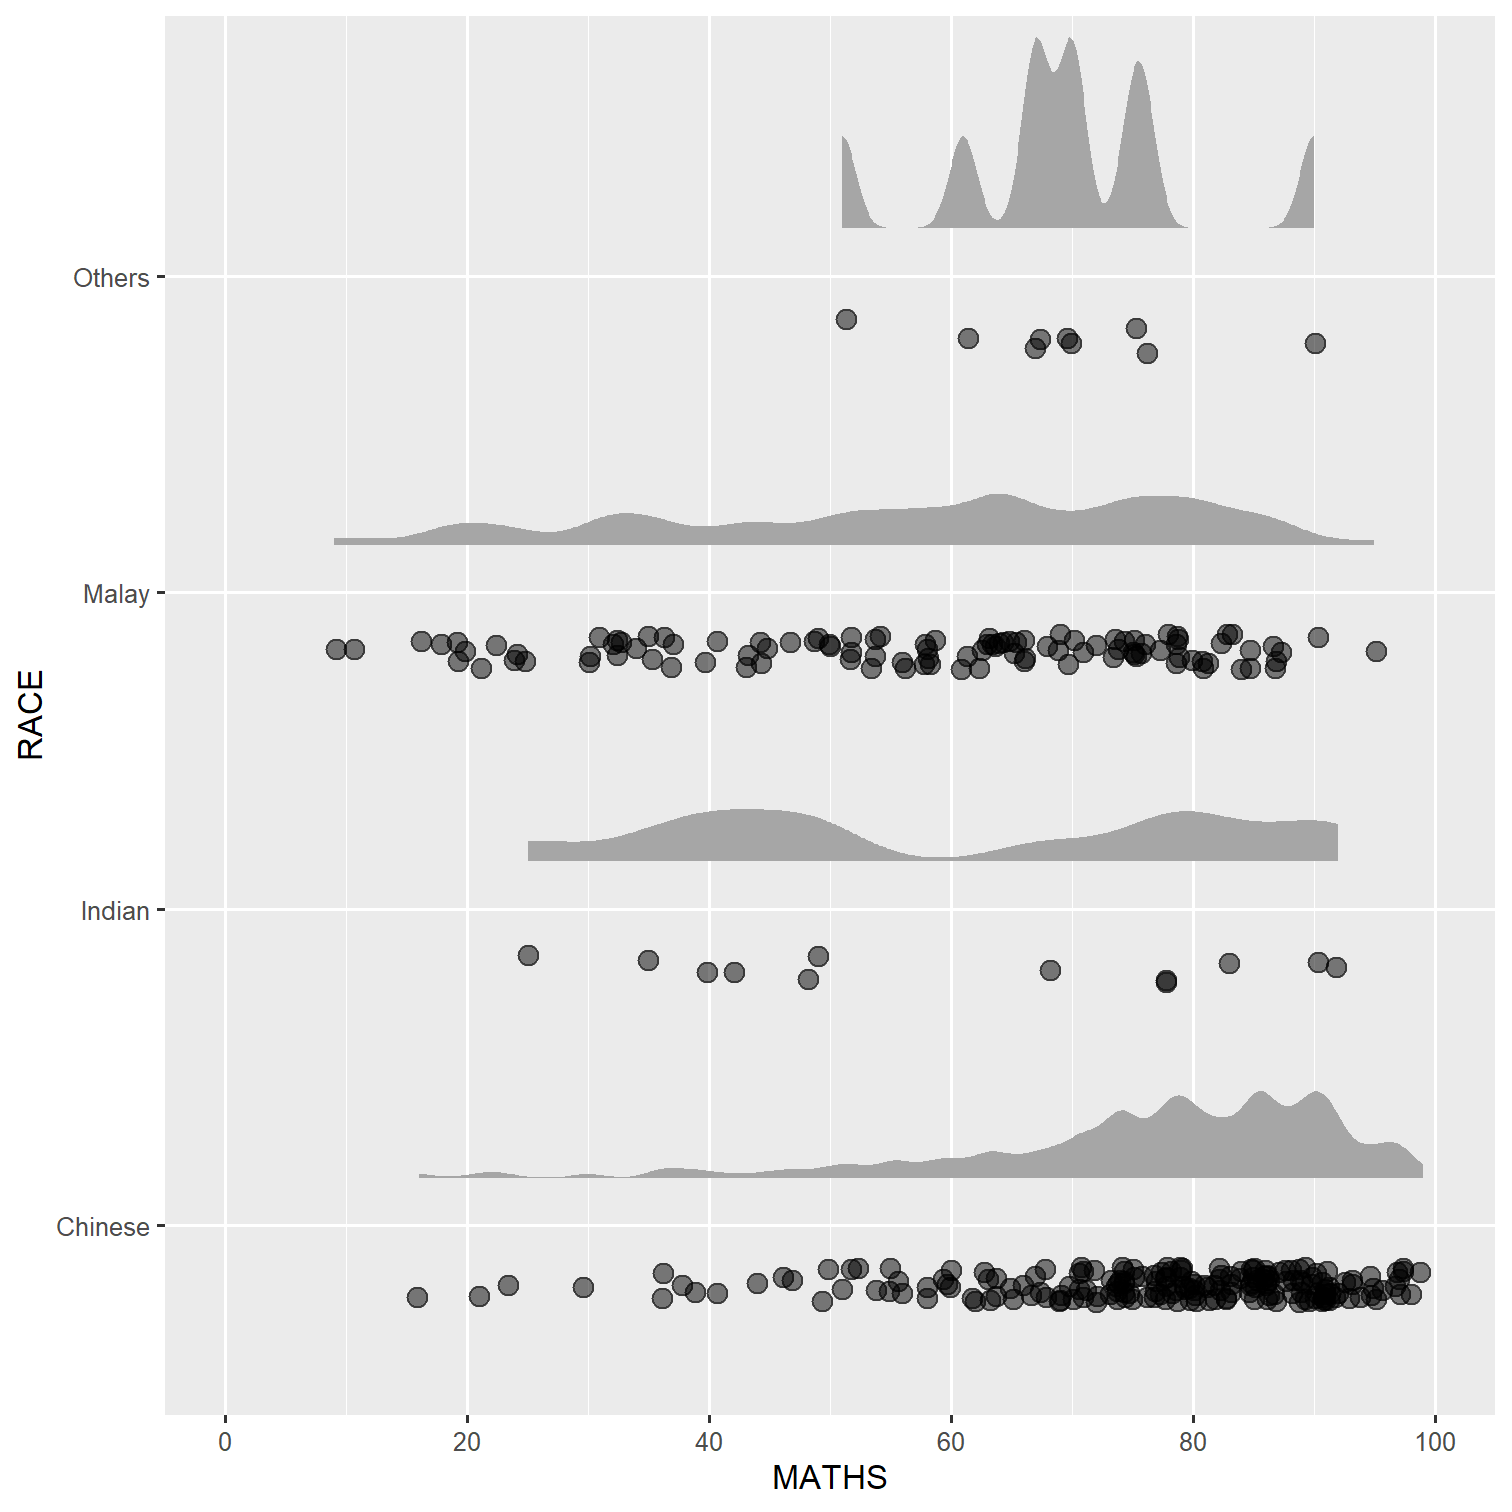
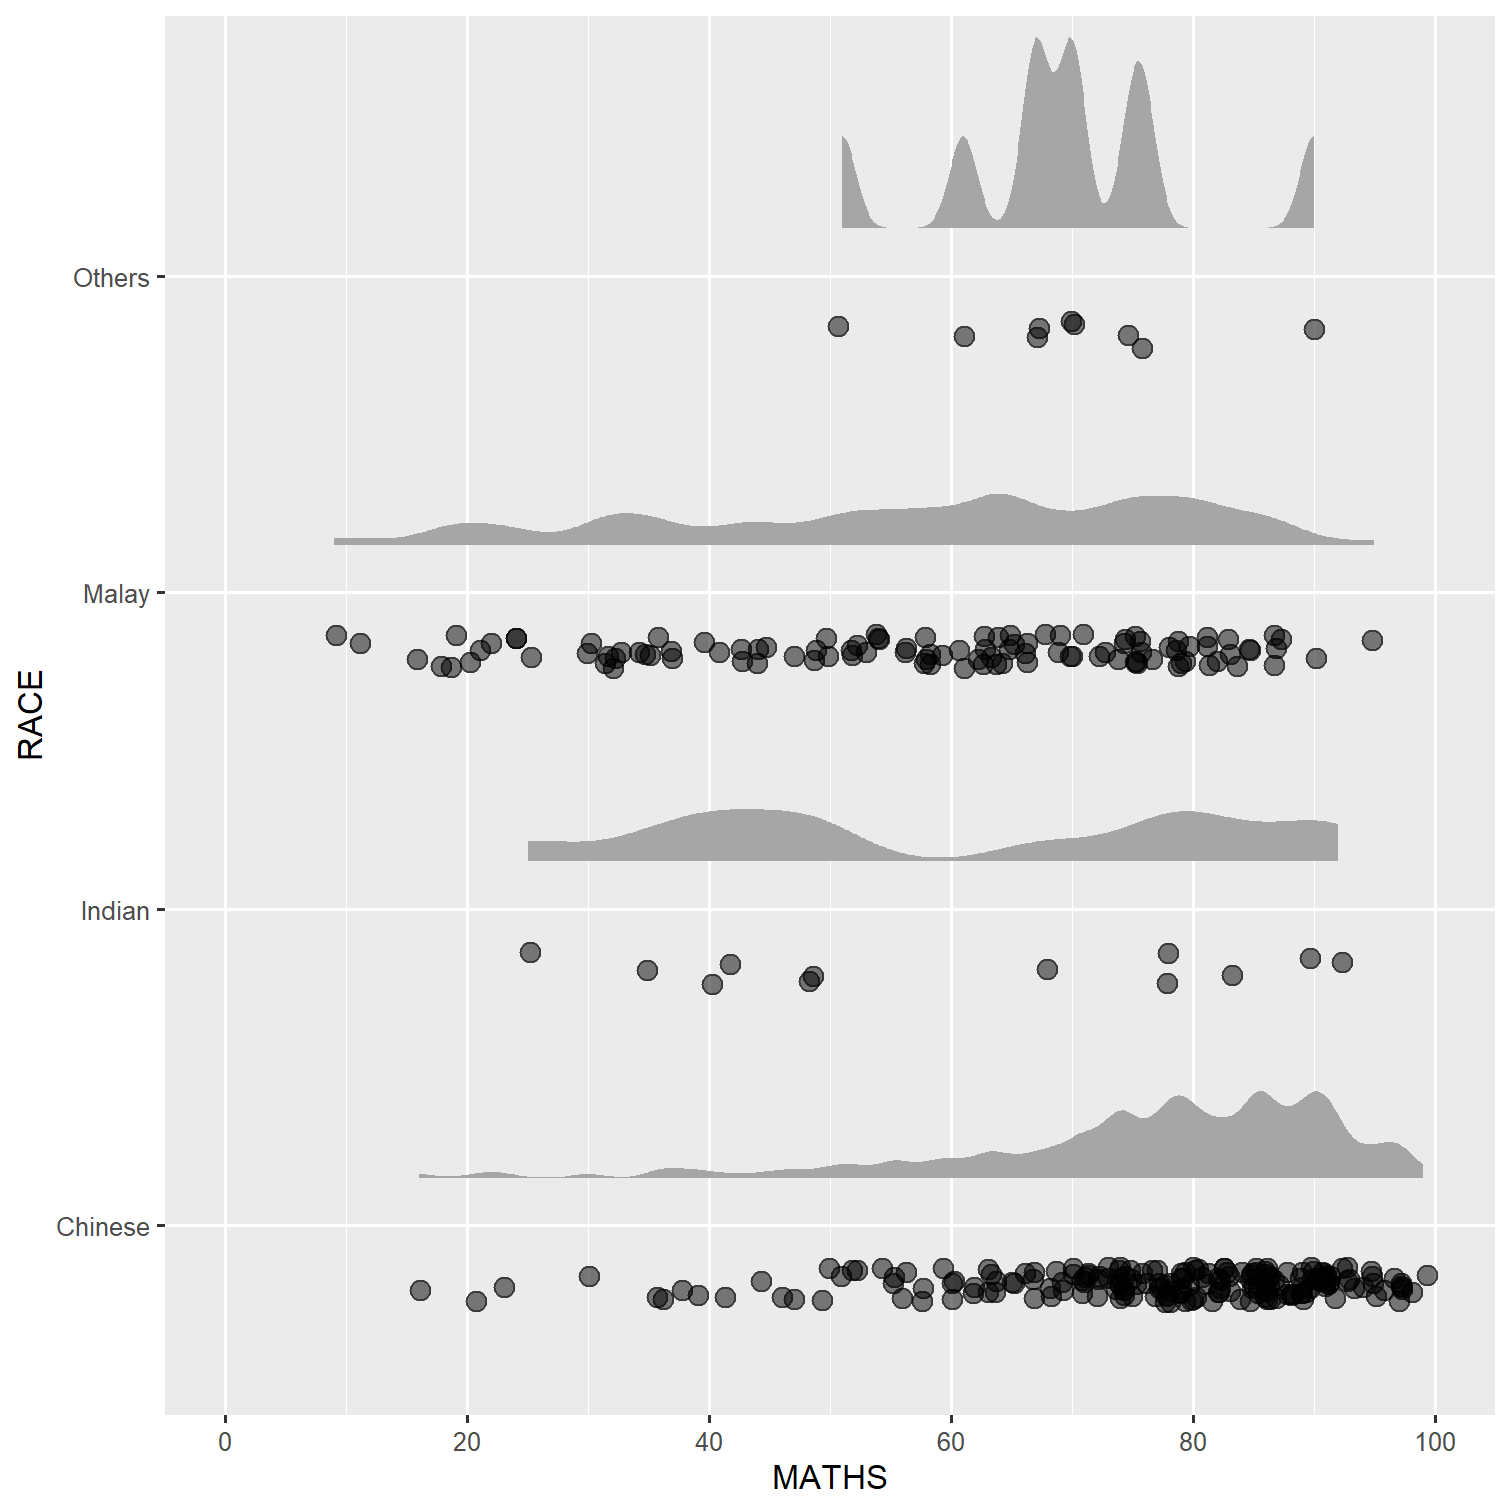
Added Split violin plot section on Hands-on Exercise 1

diff --git a/Hands-on_Ex/Hands-on_Ex01/Hands-on_Ex01.html b/Hands-on_Ex/Hands-on_Ex01/Hands-on_Ex01.html
@@ -15,7 +15,7 @@ class: center, middle, inverse, title-slide
 # Hands-on Exercise 1: Programming Elegant DataVis with ggplot2
 ### Dr. Kam Tin Seong<br/>Assoc. Professor of Information Systems
 ### School of Computing and Information Systems,<br/>Singapore Management University
-### 2020-2-15 (updated: 2022-04-17)
+### 2020-2-15 (updated: 2022-04-18)
 
 ---
 
@@ -1297,7 +1297,7 @@ A within group scatterplot with reference lines.
 ## Beyond Basic Statistical Graphic
 ### Split violin plots
 
-In this exercise, you will learn how to plot split violin plots shown on Slide 22 of Lesson 1: Choosing the Right Visualisation by using `geom_split_violin()` of [**introdataviz**](https://github.com/PsyTeachR/introdataviz) package.
+In this exercise, you will learn how to plot split violin plots shown on [Slide 22](https://isss608-ay2021-22april.netlify.app/lesson/lesson01/lesson01a-choosing-the-right-visualisation#20) of Lesson 1: Choosing the Right Visualisation by using `geom_split_violin()` of [**introdataviz**](https://github.com/PsyTeachR/introdataviz) package.
 
 &lt;img src="Hands-on_Ex01_files/figure-html/unnamed-chunk-83-1.png" width="720" /&gt;
 
@@ -1370,7 +1370,7 @@ ggplot(exam_data, aes(x = RACE, y = MATHS)) +
   stat_halfeye(adjust = .33, 
                width = .67, 
                color = NA,
-               justification = 1,
+               justification = 0.1,
                position = position_nudge(x = .15)
   ) +
   geom_half_point(side = "l", 

diff --git a/_site/Hands-on_Ex/Hands-on_Ex01/Hands-on_Ex01.html b/_site/Hands-on_Ex/Hands-on_Ex01/Hands-on_Ex01.html
@@ -15,7 +15,7 @@ class: center, middle, inverse, title-slide
 # Hands-on Exercise 1: Programming Elegant DataVis with ggplot2
 ### Dr. Kam Tin Seong<br/>Assoc. Professor of Information Systems
 ### School of Computing and Information Systems,<br/>Singapore Management University
-### 2020-2-15 (updated: 2022-04-17)
+### 2020-2-15 (updated: 2022-04-18)
 
 ---
 
@@ -1297,7 +1297,7 @@ A within group scatterplot with reference lines.
 ## Beyond Basic Statistical Graphic
 ### Split violin plots
 
-In this exercise, you will learn how to plot split violin plots shown on Slide 22 of Lesson 1: Choosing the Right Visualisation by using `geom_split_violin()` of [**introdataviz**](https://github.com/PsyTeachR/introdataviz) package.
+In this exercise, you will learn how to plot split violin plots shown on [Slide 22](https://isss608-ay2021-22april.netlify.app/lesson/lesson01/lesson01a-choosing-the-right-visualisation#20) of Lesson 1: Choosing the Right Visualisation by using `geom_split_violin()` of [**introdataviz**](https://github.com/PsyTeachR/introdataviz) package.
 
 &lt;img src="Hands-on_Ex01_files/figure-html/unnamed-chunk-83-1.png" width="720" /&gt;
 
@@ -1370,7 +1370,7 @@ ggplot(exam_data, aes(x = RACE, y = MATHS)) +
   stat_halfeye(adjust = .33, 
                width = .67, 
                color = NA,
-               justification = 1,
+               justification = 0.1,
                position = position_nudge(x = .15)
   ) +
   geom_half_point(side = "l", 
